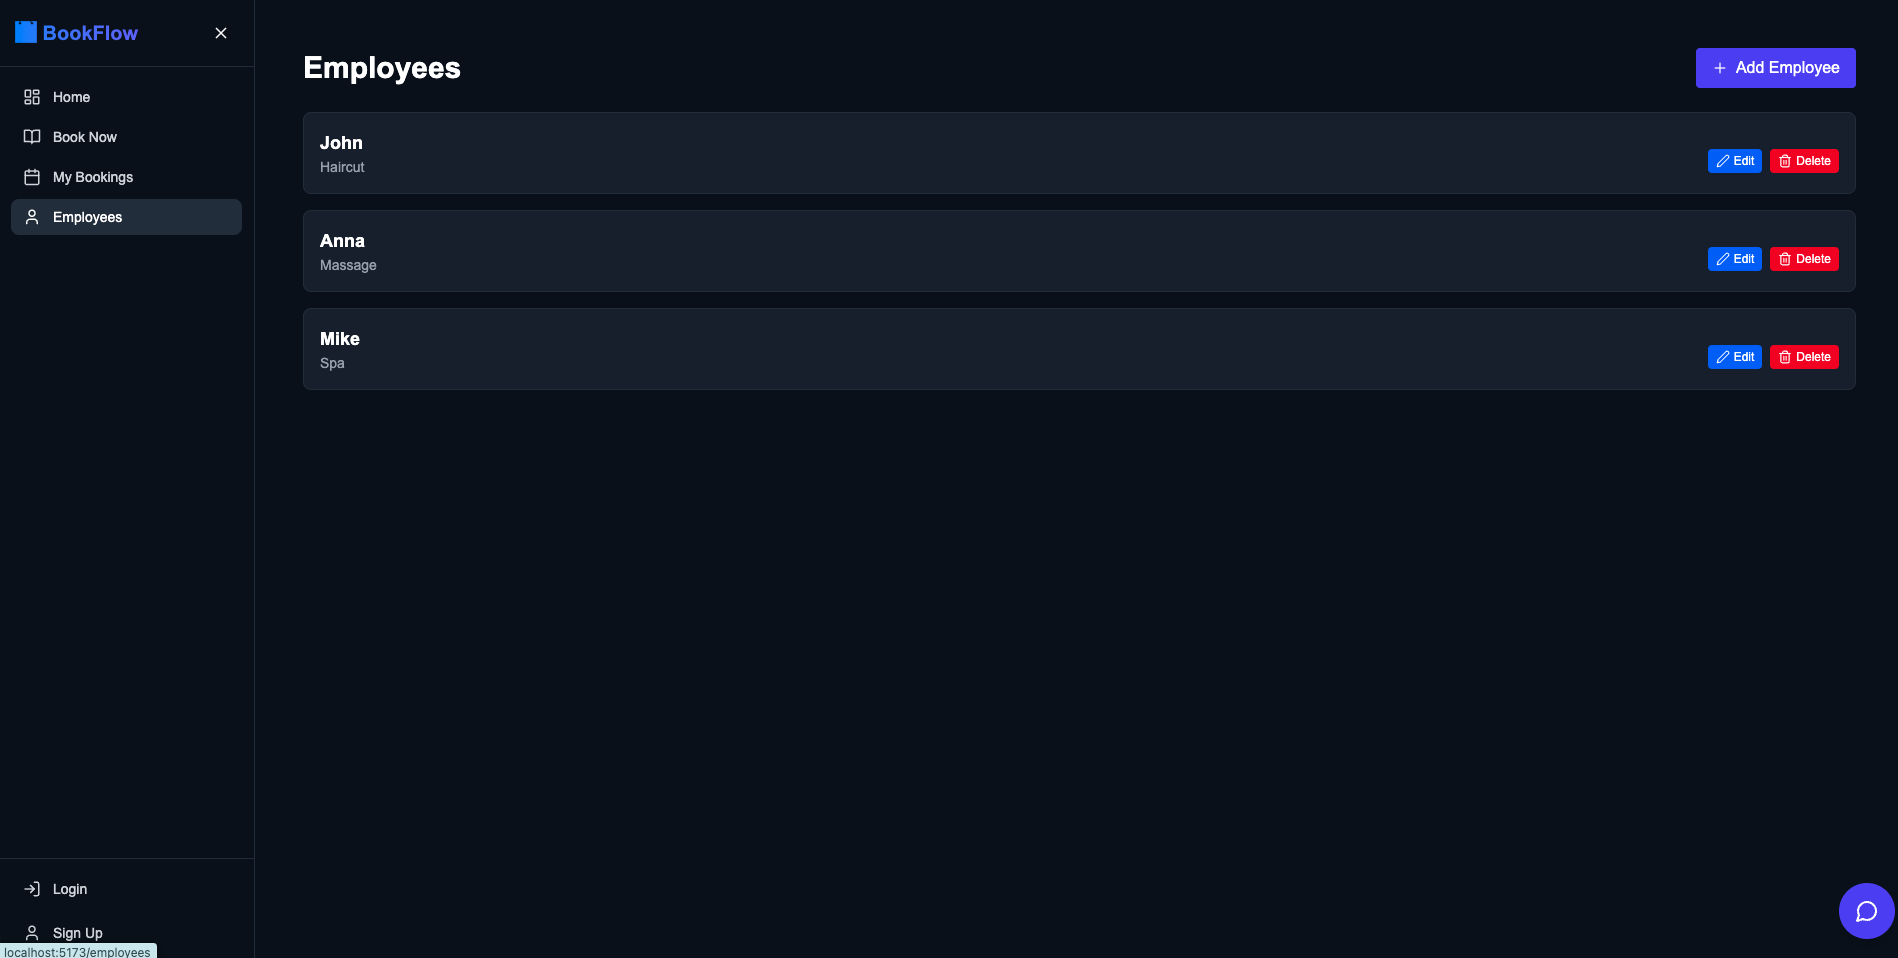
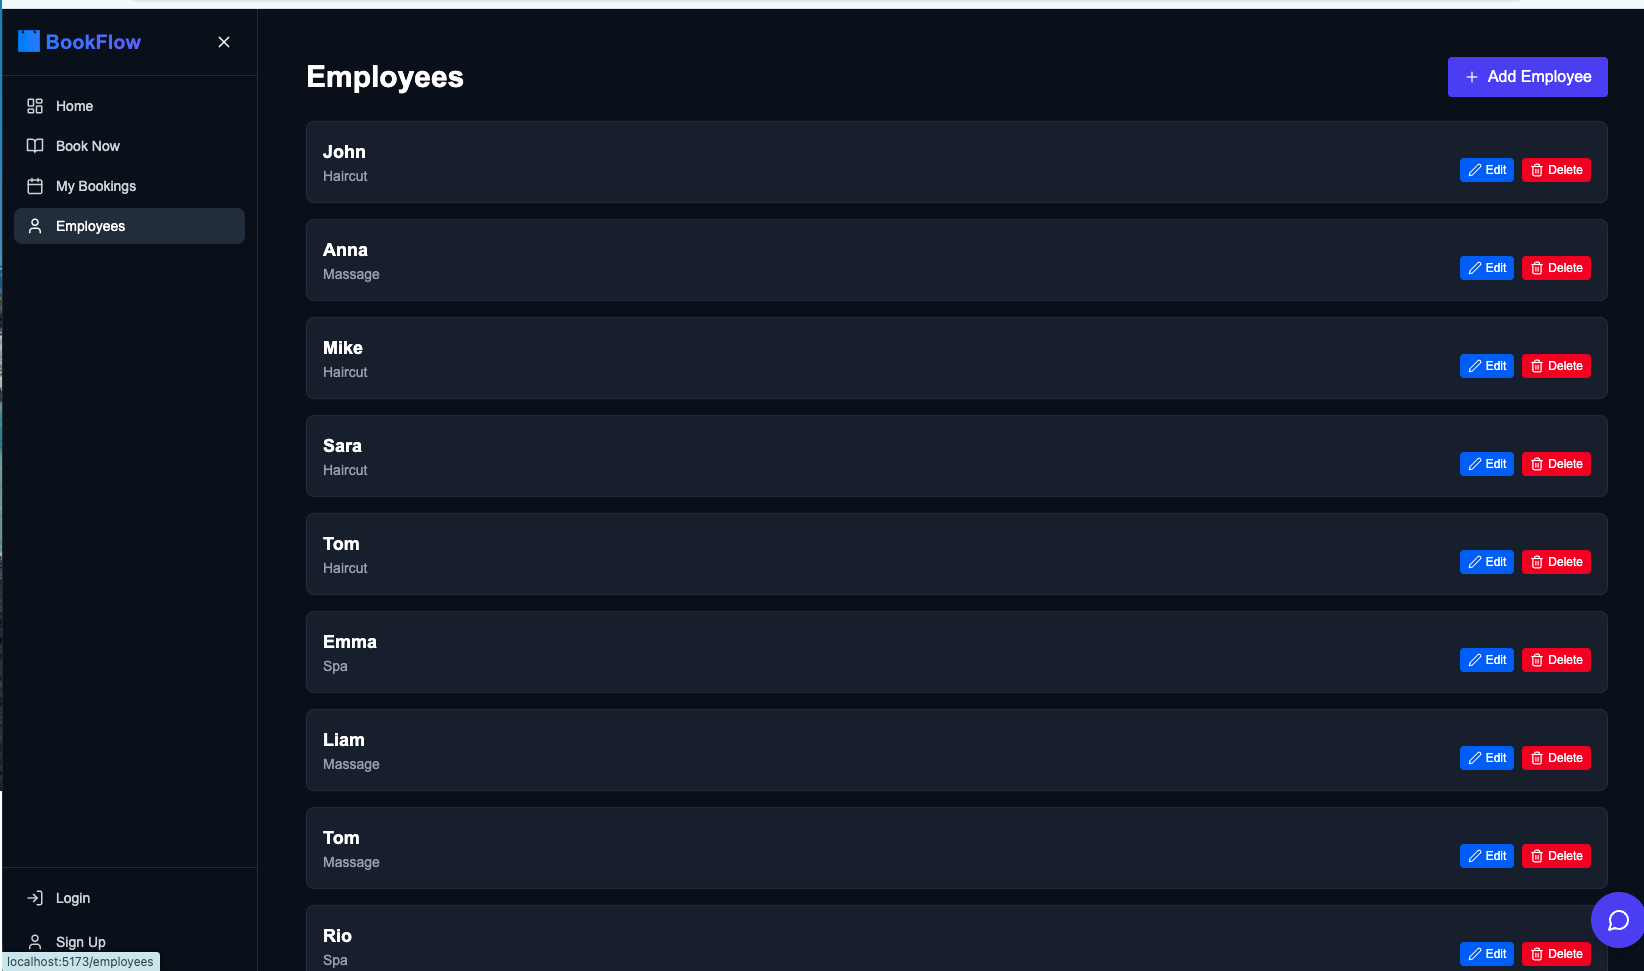
Refactor

diff --git a/frontend/src/store/bookingStore.ts b/frontend/src/store/bookingStore.ts
@@ -36,7 +36,14 @@ export const useBookingStore = create<BookingStore>((set) => ({
   employees: [
     { id: "e1", name: "John", role: "haircut", active: true },
     { id: "e2", name: "Anna", role: "massage", active: true },
-    { id: "e3", name: "Mike", role: "spa", active: true },
+    { id: "e3", name: "Mike", role: "haircut", active: true },
+    { id: "e4", name: "Sara", role: "haircut", active: true },
+    { id: "e5", name: "Tom", role: "haircut", active: true },
+    { id: "e6", name: "Emma", role: "spa", active: true },
+    { id: "e7", name: "Liam", role: "massage", active: true },
+    { id: "e8", name: "Tom", role: "massage", active: true },
+    { id: "e9", name: "Rio", role: "spa", active: true },
+    { id: "e10", name: "Ysar", role: "spa", active: true },
   ],
 
   setBookings: (bookings) => set({ bookings }),

diff --git a/frontend/src/pages/MyBookings.tsx b/frontend/src/pages/MyBookings.tsx
@@ -153,8 +153,8 @@ export default function MyBookings() {
   // UI
   // -----------------------------
   return (
-    <div className="min-h-screen bg-gray-950 pt-20 pb-20 px-4 text-white">
-      <div className="max-w-4xl mx-auto">
+    <div className="min-h-screen bg-gray-950 pt-5 pb-20 px-4 text-white">
+      <div>
 
         {/* Header */}
         <div className="mb-12">

diff --git a/frontend/src/pages/Dashboard.tsx b/frontend/src/pages/Dashboard.tsx
@@ -25,7 +25,7 @@ const data = [
 ];
 export default function Dashboard() {
   return (
-    <div className="flex min-h-screen bg-gray-950 text-white">
+    <div className="flex pt-5 min-h-screen bg-gray-950 text-white">
 
       {/* ---------------- MAIN ---------------- */}
       <main className="flex-1 space-y-6">